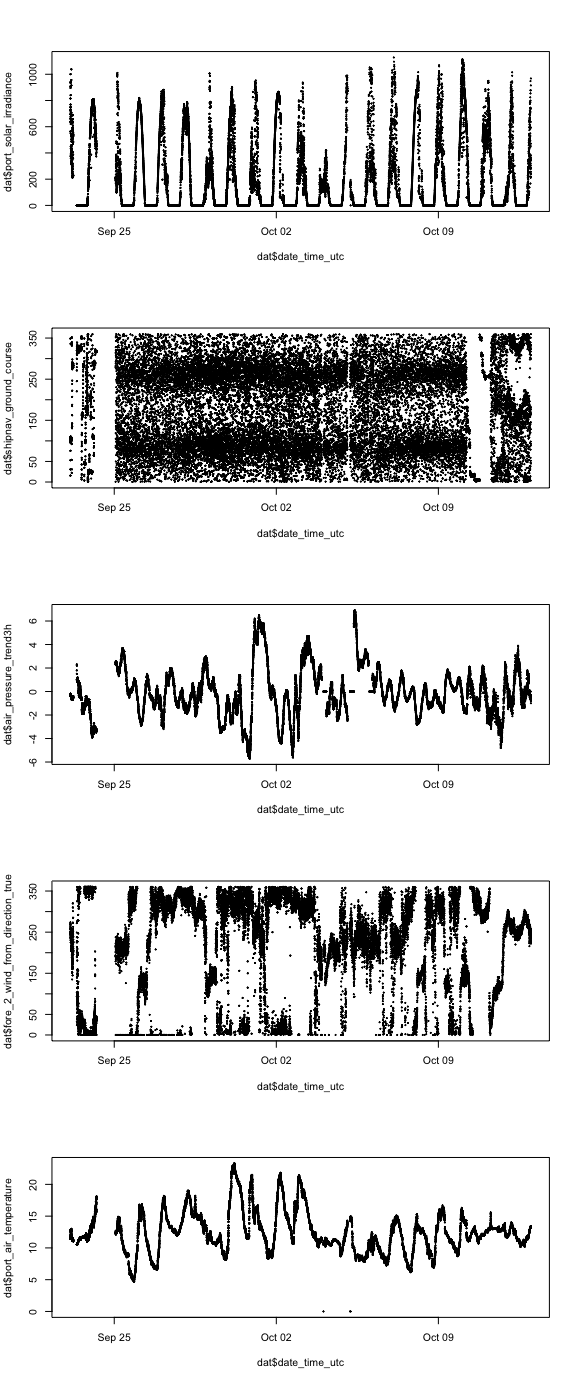
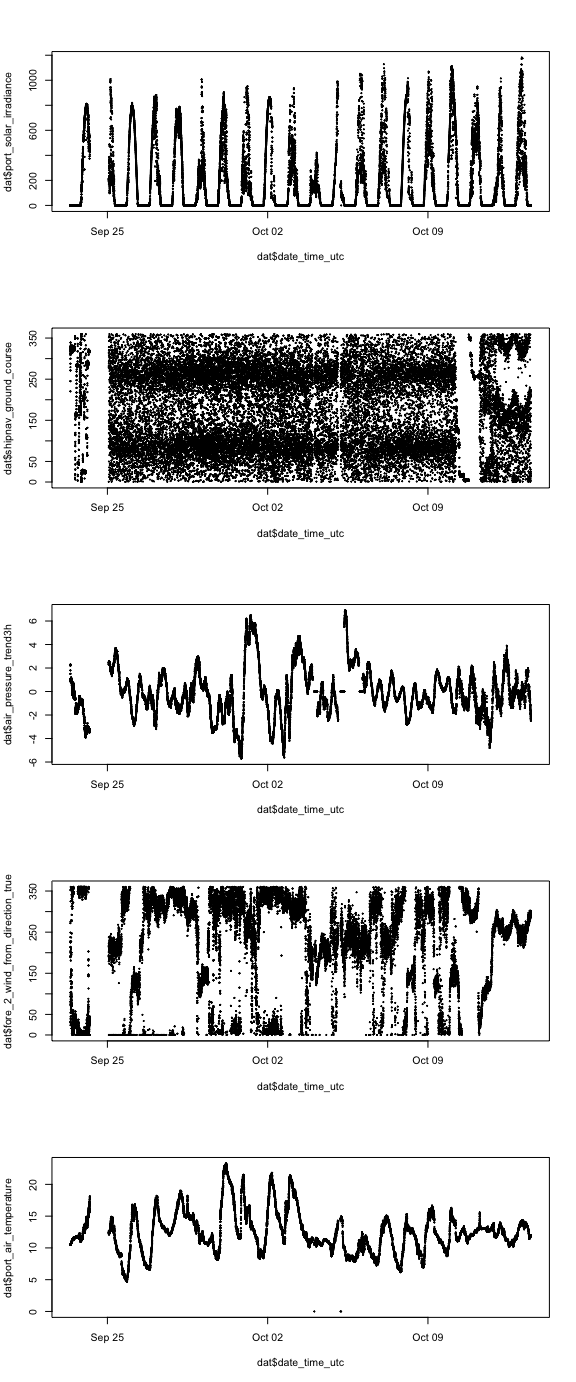
refreshing data

diff --git a/README.md b/README.md
@@ -32,7 +32,7 @@ dat <- arrow::read_parquet("data-raw/nuyina_underway.parquet")
 
 
 print(range( dat$date_time_utc))
-#> [1] "2021/12/23 05:00:00+00" "2023/10/12 23:59:00+00"
+#> [1] "2021/12/23 05:00:00+00" "2023/10/13 11:59:00+00"
 dat <- tibble::as_tibble(dat)
 dat <- tail(dat, n)
 dat$date_time_utc <- as.POSIXct(dat$date_time_utc, "%Y/%m/%d %H:%M:%S", tz = "UTC")
